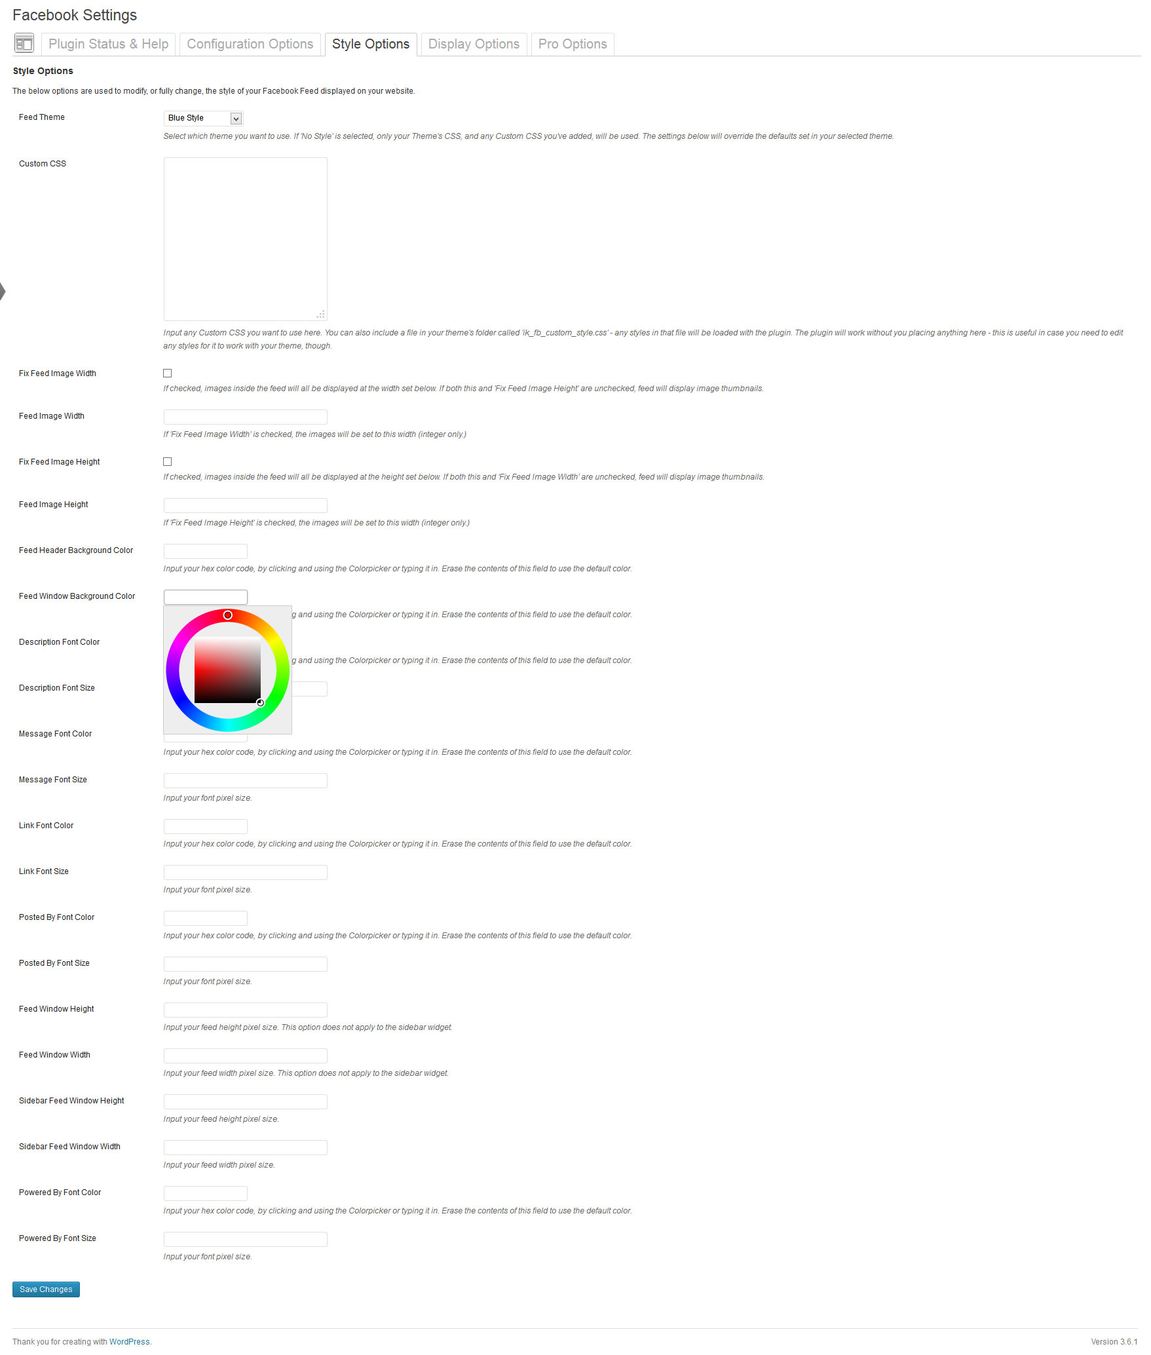
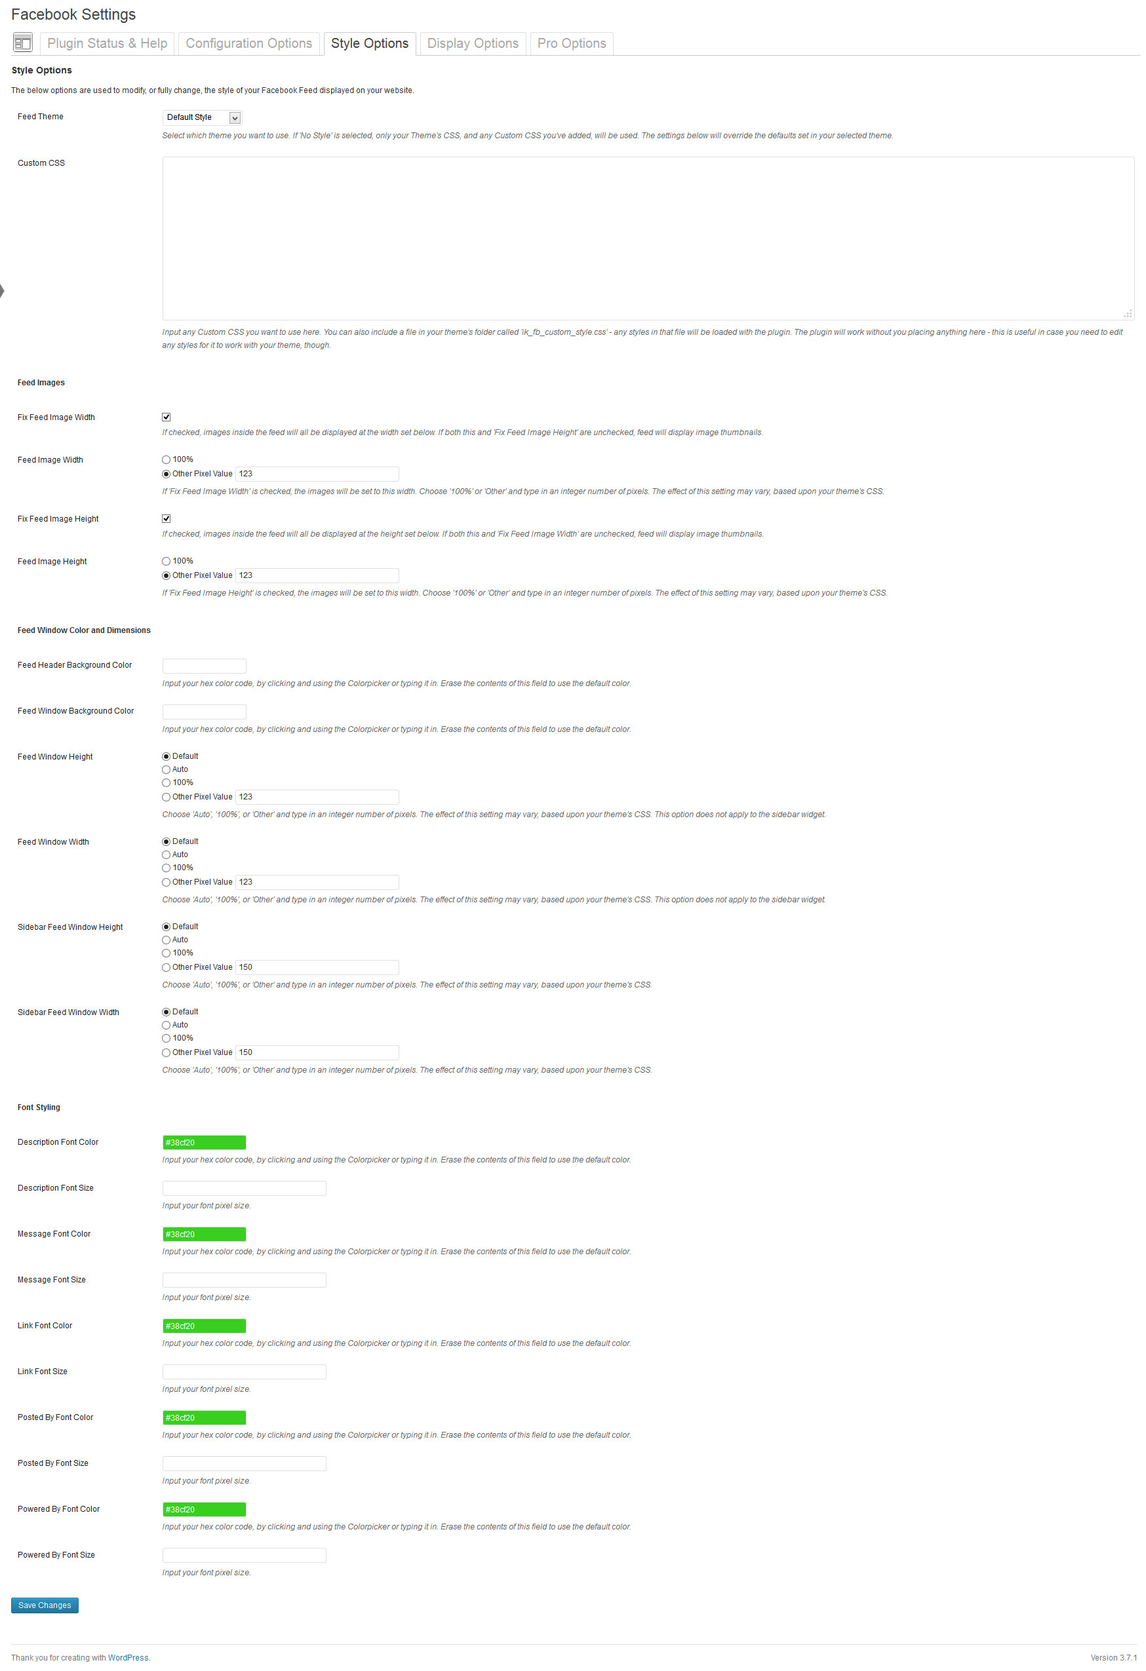
Clean up Style Options. Add Option to Hide Images. Add Like Button Widget for Sidebar usage. Add ability to set image height, width to 100%.
git-svn-id: https://plugins.svn.wordpress.org/ik-facebook/trunk@802649 b8457f37-d9ea-0310-8a92-e5e31aec5664

diff --git a/include/ik_facebook_options.php b/include/ik_facebook_options.php
@@ -92,8 +92,15 @@ class ikFacebookOptions
 		register_setting( 'ik-fb-style-settings-group', 'ik_fb_font_size' );
 		register_setting( 'ik-fb-style-settings-group', 'ik_fb_sidebar_feed_window_height' );
 		register_setting( 'ik-fb-style-settings-group', 'ik_fb_sidebar_feed_window_width' );
+		register_setting( 'ik-fb-style-settings-group', 'other_ik_fb_feed_window_width' );
+		register_setting( 'ik-fb-style-settings-group', 'other_ik_fb_feed_image_width' );
+		register_setting( 'ik-fb-style-settings-group', 'other_ik_fb_feed_image_height' );
+		register_setting( 'ik-fb-style-settings-group', 'other_ik_fb_feed_window_height' );
+		register_setting( 'ik-fb-style-settings-group', 'other_ik_fb_sidebar_feed_window_height' );
+		register_setting( 'ik-fb-style-settings-group', 'other_ik_fb_sidebar_feed_window_width' );
 		
 		//register our display settings
+		register_setting( 'ik-fb-display-settings-group', 'ik_fb_hide_feed_images' );
 		register_setting( 'ik-fb-display-settings-group', 'ik_fb_show_like_button' );
 		register_setting( 'ik-fb-display-settings-group', 'ik_fb_show_profile_picture' );
 		register_setting( 'ik-fb-display-settings-group', 'ik_fb_show_page_title' );
@@ -285,9 +292,11 @@ class ikFacebookOptions
 				
 				<tr valign="top">
 					<th scope="row"><label for="ik_fb_custom_css">Custom CSS</a></th>
-					<td><textarea name="ik_fb_custom_css" id="ik_fb_custom_css" style="width: 250px; height: 250px;"><?php echo get_option('ik_fb_custom_css'); ?></textarea>
+					<td><textarea name="ik_fb_custom_css" id="ik_fb_custom_css" style="width: 100%; height: 250px;"><?php echo get_option('ik_fb_custom_css'); ?></textarea>
 					<p class="description">Input any Custom CSS you want to use here.  You can also include a file in your theme's folder called 'ik_fb_custom_style.css' - any styles in that file will be loaded with the plugin.  The plugin will work without you placing anything here - this is useful in case you need to edit any styles for it to work with your theme, though.</p></td>
 				</tr>
+				
+				<tr><td colspan=2><h4>Feed Images</h4></td></tr>
 				
 				<tr valign="top">
 					<th scope="row"><label for="ik_fb_fix_feed_image_width">Fix Feed Image Width</label></th>
@@ -296,8 +305,12 @@ class ikFacebookOptions
 				</tr>
 				<tr valign="top">
 					<th scope="row"><label for="ik_fb_feed_image_width">Feed Image Width</label></th>
-					<td><input type="text" name="ik_fb_feed_image_width" id="ik_fb_feed_image_width" value="<?php echo get_option('ik_fb_feed_image_width'); ?>" style="width: 250px" />
-					<p class="description">If 'Fix Feed Image Width' is checked, the images will be set to this width (integer only.)</p></td>
+					<td>
+					
+					<input type="radio" name="ik_fb_feed_image_width" id="ik_fb_feed_image_width" <?php if(get_option('ik_fb_feed_image_width')=="100%"){ ?> checked="CHECKED" <?php } ?> value="100%"> 100%<br>
+					<input type="radio" name="ik_fb_feed_image_width" id="ik_fb_feed_image_width"  <?php if(get_option('ik_fb_feed_image_width')=="OTHER"){ ?> checked="CHECKED" <?php } ?> value="OTHER"> Other Pixel Value <input type="text" style="width: 250px" value="<?php echo get_option('other_ik_fb_feed_image_width'); ?>" name="other_ik_fb_feed_image_width" />
+									
+					<p class="description">If 'Fix Feed Image Width' is checked, the images will be set to this width.  Choose '100%' or 'Other' and type in an integer number of pixels.  The effect of this setting may vary, based upon your theme's CSS.</p></td>
 				</tr>
 				<tr valign="top">
 					<th scope="row"><label for="ik_fb_fix_feed_image_height">Fix Feed Image Height</label></th>
@@ -306,9 +319,15 @@ class ikFacebookOptions
 				</tr>
 				<tr valign="top">
 					<th scope="row"><label for="ik_fb_feed_image_height">Feed Image Height</label></th>
-					<td><input type="text" name="ik_fb_feed_image_height" id="ik_fb_feed_image_height" value="<?php echo get_option('ik_fb_feed_image_height'); ?>" style="width: 250px" />
-					<p class="description">If 'Fix Feed Image Height' is checked, the images will be set to this width (integer only.)</p></td>
+					<td>
+					
+					<input type="radio" name="ik_fb_feed_image_height" id="ik_fb_feed_image_height" <?php if(get_option('ik_fb_feed_image_height')=="100%"){ ?> checked="CHECKED" <?php } ?> value="100%"> 100%<br>
+					<input type="radio" name="ik_fb_feed_image_height" id="ik_fb_feed_image_height"  <?php if(get_option('ik_fb_feed_image_height')=="OTHER"){ ?> checked="CHECKED" <?php } ?> value="OTHER"> Other Pixel Value <input type="text" style="width: 250px" value="<?php echo get_option('other_ik_fb_feed_image_height'); ?>" name="other_ik_fb_feed_image_height" />
+					
+					<p class="description">If 'Fix Feed Image Height' is checked, the images will be set to this width.  Choose '100%' or 'Other' and type in an integer number of pixels.  The effect of this setting may vary, based upon your theme's CSS.</p></td>
 				</tr>
+				
+				<tr><td colspan=2><h4>Feed Window Color and Dimensions</h4></td></tr>
 				
 				<tr valign="top">
 					<th scope="row"><label for="ik_fb_header_bg_color">Feed Header Background Color</label></th>
@@ -331,6 +350,56 @@ class ikFacebookOptions
 					</div>		
 					<p class="description">Input your hex color code, by clicking and using the Colorpicker or typing it in.  Erase the contents of this field to use the default color.</p></td>
 				</tr>
+				
+				<tr valign="top">
+					<th scope="row"><label for="ik_fb_feed_window_height">Feed Window Height</label></th>
+					<td>
+					
+					<input type="radio" name="ik_fb_feed_window_height" id="ik_fb_feed_window_height" <?php if(get_option('ik_fb_feed_window_height')==""){ ?> checked="CHECKED" <?php } ?> value=""> Default<br>
+					<input type="radio" name="ik_fb_feed_window_height" id="ik_fb_feed_window_height" <?php if(get_option('ik_fb_feed_window_height')=="auto"){ ?> checked="CHECKED" <?php } ?> value="auto"> Auto<br>
+					<input type="radio" name="ik_fb_feed_window_height" id="ik_fb_feed_window_height" <?php if(get_option('ik_fb_feed_window_height')=="100%"){ ?> checked="CHECKED" <?php } ?> value="100%"> 100%<br>
+					<input type="radio" name="ik_fb_feed_window_height" id="ik_fb_feed_window_height"  <?php if(get_option('ik_fb_feed_window_height')=="OTHER"){ ?> checked="CHECKED" <?php } ?> value="OTHER"> Other Pixel Value <input type="text" style="width: 250px" value="<?php echo get_option('other_ik_fb_feed_window_height'); ?>" name="other_ik_fb_feed_window_height" />
+					
+					<p class="description">Choose 'Auto', '100%', or 'Other' and type in an integer number of pixels. The effect of this setting may vary, based upon your theme's CSS. This option does not apply to the sidebar widget.</p></td>
+				</tr>
+				
+				<tr valign="top">
+					<th scope="row"><label for="ik_fb_feed_window_width">Feed Window Width</label></th>
+					<td>
+					
+					<input type="radio" name="ik_fb_feed_window_width" id="ik_fb_feed_window_width" <?php if(get_option('ik_fb_feed_window_width')==""){ ?> checked="CHECKED" <?php } ?> value=""> Default<br>
+					<input type="radio" name="ik_fb_feed_window_width" id="ik_fb_feed_window_width" <?php if(get_option('ik_fb_feed_window_width')=="auto"){ ?> checked="CHECKED" <?php } ?> value="auto"> Auto<br>
+					<input type="radio" name="ik_fb_feed_window_width" id="ik_fb_feed_window_width" <?php if(get_option('ik_fb_feed_window_width')=="100%"){ ?> checked="CHECKED" <?php } ?> value="100%"> 100%<br>
+					<input type="radio" name="ik_fb_feed_window_width" id="ik_fb_feed_window_width"  <?php if(get_option('ik_fb_feed_window_width')=="OTHER"){ ?> checked="CHECKED" <?php } ?> value="OTHER"> Other Pixel Value <input type="text" style="width: 250px" value="<?php echo get_option('other_ik_fb_feed_window_width'); ?>" name="other_ik_fb_feed_window_width" />
+					
+					<p class="description">Choose 'Auto', '100%', or 'Other' and type in an integer number of pixels. The effect of this setting may vary, based upon your theme's CSS. This option does not apply to the sidebar widget.</p></td>
+				</tr>
+				
+				<tr valign="top">
+					<th scope="row"><label for="ik_fb_sidebar_feed_window_height">Sidebar Feed Window Height</label></th>
+					<td>
+					
+					<input type="radio" name="ik_fb_sidebar_feed_window_height" id="ik_fb_sidebar_feed_window_height" <?php if(get_option('ik_fb_sidebar_feed_window_height')==""){ ?> checked="CHECKED" <?php } ?> value=""> Default<br>
+					<input type="radio" name="ik_fb_sidebar_feed_window_height" id="ik_fb_sidebar_feed_window_height" <?php if(get_option('ik_fb_sidebar_feed_window_height')=="auto"){ ?> checked="CHECKED" <?php } ?> value="auto"> Auto<br>
+					<input type="radio" name="ik_fb_sidebar_feed_window_height" id="ik_fb_sidebar_feed_window_height" <?php if(get_option('ik_fb_sidebar_feed_window_height')=="100%"){ ?> checked="CHECKED" <?php } ?> value="100%"> 100%<br>
+					<input type="radio" name="ik_fb_sidebar_feed_window_height" id="ik_fb_sidebar_feed_window_height"  <?php if(get_option('ik_fb_sidebar_feed_window_height')=="OTHER"){ ?> checked="CHECKED" <?php } ?> value="OTHER"> Other Pixel Value <input type="text" style="width: 250px" value="<?php echo get_option('other_ik_fb_sidebar_feed_window_height'); ?>" name="other_ik_fb_sidebar_feed_window_height" />
+					
+					<p class="description">Choose 'Auto', '100%', or 'Other' and type in an integer number of pixels. The effect of this setting may vary, based upon your theme's CSS. </p></td>
+				</tr>
+				
+				<tr valign="top">
+					<th scope="row"><label for="ik_fb_sidebar_feed_window_width">Sidebar Feed Window Width</label></th>
+					<td>
+					
+					<input type="radio" name="ik_fb_sidebar_feed_window_width" id="ik_fb_sidebar_feed_window_width" <?php if(get_option('ik_fb_sidebar_feed_window_width')==""){ ?> checked="CHECKED" <?php } ?> value=""> Default<br>
+					<input type="radio" name="ik_fb_sidebar_feed_window_width" id="ik_fb_sidebar_feed_window_width" <?php if(get_option('ik_fb_sidebar_feed_window_width')=="auto"){ ?> checked="CHECKED" <?php } ?> value="auto"> Auto<br>
+					<input type="radio" name="ik_fb_sidebar_feed_window_width" id="ik_fb_sidebar_feed_window_width" <?php if(get_option('ik_fb_sidebar_feed_window_width')=="100%"){ ?> checked="CHECKED" <?php } ?> value="100%"> 100%<br>
+					<input type="radio" name="ik_fb_sidebar_feed_window_width" id="ik_fb_sidebar_feed_window_width"  <?php if(get_option('ik_fb_sidebar_feed_window_width')=="OTHER"){ ?> checked="CHECKED" <?php } ?> value="OTHER"> Other Pixel Value <input type="text" style="width: 250px" value="<?php echo get_option('other_ik_fb_sidebar_feed_window_width'); ?>" name="other_ik_fb_sidebar_feed_window_width" />
+					
+					<p class="description">Choose 'Auto', '100%', or 'Other' and type in an integer number of pixels. The effect of this setting may vary, based upon your theme's CSS. </p></td>
+				</tr>
+				
+				<tr><td colspan=2><h4>Font Styling</h4></td></tr>
 			
 				<tr valign="top">
 					<th scope="row"><label for="ik_fb_description_font_color">Description Font Color</label></th>
@@ -395,30 +464,6 @@ class ikFacebookOptions
 					<td><input type="text" name="ik_fb_posted_by_font_size" id="ik_fb_posted_by_font_size" value="<?php echo get_option('ik_fb_posted_by_font_size'); ?>" style="width: 250px" />
 					<p class="description">Input your font pixel size.</p></td>
 				</tr>
-				
-				<tr valign="top">
-					<th scope="row"><label for="ik_fb_feed_window_height">Feed Window Height</label></th>
-					<td><input type="text" name="ik_fb_feed_window_height" id="ik_fb_feed_window_height" value="<?php echo get_option('ik_fb_feed_window_height'); ?>" style="width: 250px" />
-					<p class="description">Input your feed height pixel size. This option does not apply to the sidebar widget.</p></td>
-				</tr>
-				
-				<tr valign="top">
-					<th scope="row"><label for="ik_fb_feed_window_width">Feed Window Width</label></th>
-					<td><input type="text" name="ik_fb_feed_window_width" id="ik_fb_feed_window_width" value="<?php echo get_option('ik_fb_feed_window_width'); ?>" style="width: 250px" />
-					<p class="description">Input your feed width pixel size. This option does not apply to the sidebar widget.</p></td>
-				</tr>
-				
-				<tr valign="top">
-					<th scope="row"><label for="ik_fb_sidebar_feed_window_height">Sidebar Feed Window Height</label></th>
-					<td><input type="text" name="ik_fb_sidebar_feed_window_height" id="ik_fb_sidebar_feed_window_height" value="<?php echo get_option('ik_fb_sidebar_feed_window_height'); ?>" style="width: 250px" />
-					<p class="description">Input your feed height pixel size.</p></td>
-				</tr>
-				
-				<tr valign="top">
-					<th scope="row"><label for="ik_fb_sidebar_feed_window_width">Sidebar Feed Window Width</label></th>
-					<td><input type="text" name="ik_fb_sidebar_feed_window_width" id="ik_fb_sidebar_feed_window_width" value="<?php echo get_option('ik_fb_sidebar_feed_window_width'); ?>" style="width: 250px" />
-					<p class="description">Input your feed width pixel size.</p></td>
-				</tr>
 			
 				<tr valign="top">
 					<th scope="row"><label for="ik_fb_powered_by_font_color">Powered By Font Color</label></th>
@@ -482,6 +527,14 @@ class ikFacebookOptions
 					<th scope="row"><label for="ik_fb_description_character_limit">Feed Item Description Character Limit</label></th>
 					<td><input type="text" name="ik_fb_description_character_limit" id="ik_fb_description_character_limit" value="<?php echo get_option('ik_fb_description_character_limit'); ?>" style="width: 250px" />
 					<p class="description">If set, the feed item will be limited to this number of characters.  If a feed item is shortened, a Read More link will be displayed.</p></td>
+				</tr>
+			</table>
+			
+			<table class="form-table">
+				<tr valign="top">
+					<th scope="row"><label for="ik_fb_hide_feed_images">Hide Feed Images</label></th>
+					<td><input type="checkbox" name="ik_fb_hide_feed_images" id="ik_fb_show_feed_images" value="1" <?php if(get_option('ik_fb_hide_feed_images')){ ?> checked="CHECKED" <?php } ?>/>
+					<p class="description">If checked, images will be hidden from your feed.</p></td>
 				</tr>
 			</table>
 			

diff --git a/ik_facebook.php b/ik_facebook.php
@@ -4,7 +4,7 @@ Plugin Name: IK Facebook Plugin
 Plugin URI: http://iksocialpro.com/the-ik-facebook-plugin/
 Description: IK Facebook Plugin - A Facebook Solution for WordPress
 Author: Illuminati Karate, Inc.
-Version: 2.5.5.1
+Version: 2.5.6
 Author URI: http://illuminatikarate.com
 
 This file is part of the IK Facebook Plugin.
@@ -23,6 +23,7 @@ You should have received a copy of the GNU General Public License
 along with the IK Facebook Plugin .  If not, see <http://www.gnu.org/licenses/>.
 */
 include('include/widgets/ik_facebook_feed_widget.php');
+include('include/widgets/ik_facebook_like_button_widget.php');
 include('include/ik_facebook_options.php');
 include('include/lib/CachedCurl.php');
 include('include/lib/lib.php');
@@ -66,6 +67,7 @@ class ikFacebook
 	//register any widgets here
 	function ik_fb_register_widgets() {
 		register_widget( 'ikFacebookFeedWidget' );
+		register_widget( 'ikFacebookLikeButtonWidget' );
 	}
 	
 	//add Basic CSS
@@ -127,7 +129,7 @@ class ikFacebook
 		//load shortcode attributes into an array
 		extract( shortcode_atts( array(
 			'url' => site_url(),
-			'height' => '45',
+			'' => '45',
 			'colorscheme' => 'light'
 		), $atts ) );
 		
@@ -275,15 +277,31 @@ class ikFacebook
 		if(!$is_sidebar_widget){
 			$ik_fb_feed_height = strlen(get_option('ik_fb_feed_window_height')) > 0 && !get_option('ik_fb_use_custom_html') ? get_option('ik_fb_feed_window_height') : '';
 			$ik_fb_feed_width = strlen(get_option('ik_fb_feed_window_width')) > 0 && !get_option('ik_fb_use_custom_html') ? get_option('ik_fb_feed_window_width') : '';
+				
+			if($ik_fb_feed_width == "OTHER"){
+				$ik_fb_feed_width = str_replace("px", "", get_option('other_ik_fb_feed_window_width')) . "px";
+			}
+			
+			if($ik_fb_feed_height == "OTHER"){
+				$ik_fb_feed_height = str_replace("px", "", get_option('other_ik_fb_feed_window_height')) . "px";
+			}
 		} else {
 			$ik_fb_feed_height = strlen(get_option('ik_fb_sidebar_feed_window_height')) > 0 && !get_option('ik_fb_use_custom_html') ? get_option('ik_fb_sidebar_feed_window_height') : '';
 			$ik_fb_feed_width = strlen(get_option('ik_fb_sidebar_feed_window_width')) > 0 && !get_option('ik_fb_use_custom_html') ? get_option('ik_fb_sidebar_feed_window_width') : '';
+				
+			if($ik_fb_feed_width == "OTHER"){
+				$ik_fb_feed_width = str_replace("px", "", get_option('other_ik_fb_sidebar_feed_window_width')) . "px";
+			}			
+			
+			if($ik_fb_feed_height == "OTHER"){
+				$ik_fb_feed_height = str_replace("px", "", get_option('other_ik_fb_sidebar_feed_window_height')) . "px";
+			}
 		}
 		
 		//feed window width
 		$custom_styling_1 = ' style="';
 		if(strlen($ik_fb_feed_width)>0){
-			$custom_styling_1 .= "width: {$ik_fb_feed_width}px;";
+			$custom_styling_1 .= "width: {$ik_fb_feed_width};";
 		}	
 		if(strlen($ik_fb_feed_height)>0){		
 			$custom_styling_1 .= "height: auto; ";
@@ -293,7 +311,7 @@ class ikFacebook
 		//feed window height, feed window bg color
 		$custom_styling_2 = ' style="';
 		if(strlen($ik_fb_feed_height)>0){		
-			$custom_styling_2 .= "height: {$ik_fb_feed_height}px; ";
+			$custom_styling_2 .= "height: {$ik_fb_feed_height}; ";
 		}
 		if(strlen($ik_fb_window_bg_color)>0){
 			$custom_styling_2 .= " background-color: {$ik_fb_window_bg_color};";
@@ -514,14 +532,53 @@ class ikFacebook
 					$width = get_option('ik_fb_fix_feed_image_width') ? $width : '';
 					$height = get_option('ik_fb_fix_feed_image_height') ? $height : '';	
 					
-					$replace = '<a href="'.$photo_link.'" title="Click to View Fullsize Photo" target="_blank"><img width="'.$width.'" height="'.$height.'" src="'.$photo_source.'" /></a>';
-						
+					if($width == "OTHER"){
+						$width = get_option('other_ik_fb_feed_image_width');
+					}
 					
+					if($height == "OTHER"){
+						$height = get_option('other_ik_fb_feed_image_height');
+					}
+					
+					//source: tim morozzo
+					if (isset($item->description) && strlen($item->description) >5){
+						$title = $item->description;
+					}elseif (isset($item->message))
+					{
+						$title = $item->message;
+					}else{ 
+						$title = "Click for fullsize photo";
+					}
+					
+					$limit = get_option('ik_fb_description_character_limit');
+					
+					if(is_numeric($limit)){
+						if(strlen($replace) > $limit){
+							//remove characters beyond limit
+							$title = substr($replace, 0, $limit);
+							$title .= "... ";
+
+							$shortened = true;
+						}
+					}
+									
+					$replace = '<a href="'.$photo_link.'" title="'.$title.'" target="_blank"><img width="'.$width.'" height="'.$height.'" src="'.$photo_source.'" /></a>';
+					
+					//if set, hide feed images	
+					if(get_option('ik_fb_hide_feed_images')){
+						$replace = '';
+					}
+						
 					$line_item .= str_replace('{ikfb:feed_item:image}', $replace, $image_html);						
 				} else {						
 					//otherwise, use thumbnail
 					$replace = '<a href="'.$photo_link.'" target="_blank"><img src="'.$item->picture.'" /></a>';
-									
+					
+					//if set, hide feed images
+					if(get_option('ik_fb_hide_feed_images')){
+						$replace = '';
+					}
+							
 					$line_item .= str_replace('{ikfb:feed_item:image}', $replace, $image_html);	
 				}
 

diff --git a/include/widgets/ik_facebook_like_button_widget.php b/include/widgets/ik_facebook_like_button_widget.php
@@ -1,0 +1,72 @@
+<?php
+/*
+This file is part of IK Facebook.
+
+IK Facebook is free software: you can redistribute it and/or modify
+it under the terms of the GNU General Public License as published by
+the Free Software Foundation, either version 3 of the License, or
+(at your option) any later version.
+
+IK Facebook is distributed in the hope that it will be useful,
+but WITHOUT ANY WARRANTY; without even the implied warranty of
+MERCHANTABILITY or FITNESS FOR A PARTICULAR PURPOSE.  See the
+GNU General Public License for more details.
+
+You should have received a copy of the GNU General Public License
+along with IK Facebook.  If not, see <http://www.gnu.org/licenses/>.
+
+Shout out to http://www.makeuseof.com/tag/how-to-create-wordpress-widgets/ for the help
+*/
+
+class ikFacebookLikeButtonWidget extends WP_Widget
+{
+	function ikFacebookLikeButtonWidget(){
+		$widget_ops = array('classname' => 'ikFacebookLikeButtonWidget', 'description' => 'Displays the Facebook Like Button' );
+		$this->WP_Widget('ikFacebookLikeButtonWidget', 'IK Facebook Like Button', $widget_ops);
+	}
+
+	function form($instance){
+		$instance = wp_parse_args( (array) $instance, array( 'title' => '', 'colorscheme' => false, 'page_id' => site_url(), 'height' => '45' ) );
+		$title = $instance['title'];
+		$colorscheme = $instance['colorscheme'];
+		$page_id = $instance['page_id'];
+		$height = $instance['height'];
+		?>
+			<p><label for="<?php echo $this->get_field_id('title'); ?>">Title: </label><input class="widefat" id="<?php echo $this->get_field_id('title'); ?>" name="<?php echo $this->get_field_name('title'); ?>" type="text" value="<?php echo attribute_escape($title); ?>" /></p>
+			<p><label for="<?php echo $this->get_field_id('page_id'); ?>">URL to Like (defaults to Site URL): </label><input class="widefat" id="<?php echo $this->get_field_id('page_id'); ?>" name="<?php echo $this->get_field_name('page_id'); ?>" type="text" value="<?php echo attribute_escape($page_id); ?>" /></p>
+			<p><label for="<?php echo $this->get_field_id('height'); ?>">Height (defaults to 45px): </label><input class="widefat" id="<?php echo $this->get_field_id('height'); ?>" name="<?php echo $this->get_field_name('height'); ?>" type="text" value="<?php echo attribute_escape($height); ?>" /></p>
+			<p><label for="<?php echo $this->get_field_id('colorscheme'); ?>">Like Button Color Scheme: </label><select class="widefat" id="<?php echo $this->get_field_id('colorscheme'); ?>" name="<?php echo $this->get_field_name('colorscheme'); ?>"><option <?php if($colorscheme == "light"): ?> selected="SELECTED" <?php endif; ?> value="light" >Light</option><option <?php if($colorscheme == "dark"): ?> selected="SELECTED" <?php endif; ?> value="dark">Dark</option></select></p>
+		<?php
+	}
+
+	function update($new_instance, $old_instance){
+		$instance = $old_instance;
+		$instance['title'] = $new_instance['title'];
+		$instance['colorscheme'] = strip_tags( $new_instance['colorscheme'] );
+		$instance['page_id'] = strip_tags( $new_instance['page_id'] );
+		$instance['height'] = strip_tags( $new_instance['height'] );
+		return $instance;
+	}
+
+	function widget($args, $instance){
+		extract($args, EXTR_SKIP);
+
+		echo $before_widget;
+		$title = empty($instance['title']) ? ' ' : apply_filters('widget_title', $instance['title']);
+		$colorscheme = empty($instance['colorscheme']) ? 'light' : $instance['colorscheme'];
+		$page_id = empty($instance['page_id']) ? get_option('ikfb_page_id') : $instance['page_id'];
+		$height = empty($instance['height']) ? '45' : $instance['height'];
+
+		if (!empty($title))
+			echo $before_title . $title . $after_title;;
+
+		if (!isset($ik_fb)){
+			$ik_fb = new ikFacebook();
+		}
+
+		echo $ik_fb->ik_fb_like_button($page_id,$height,$colorscheme);
+
+		echo $after_widget;
+	} 
+}
+?>
